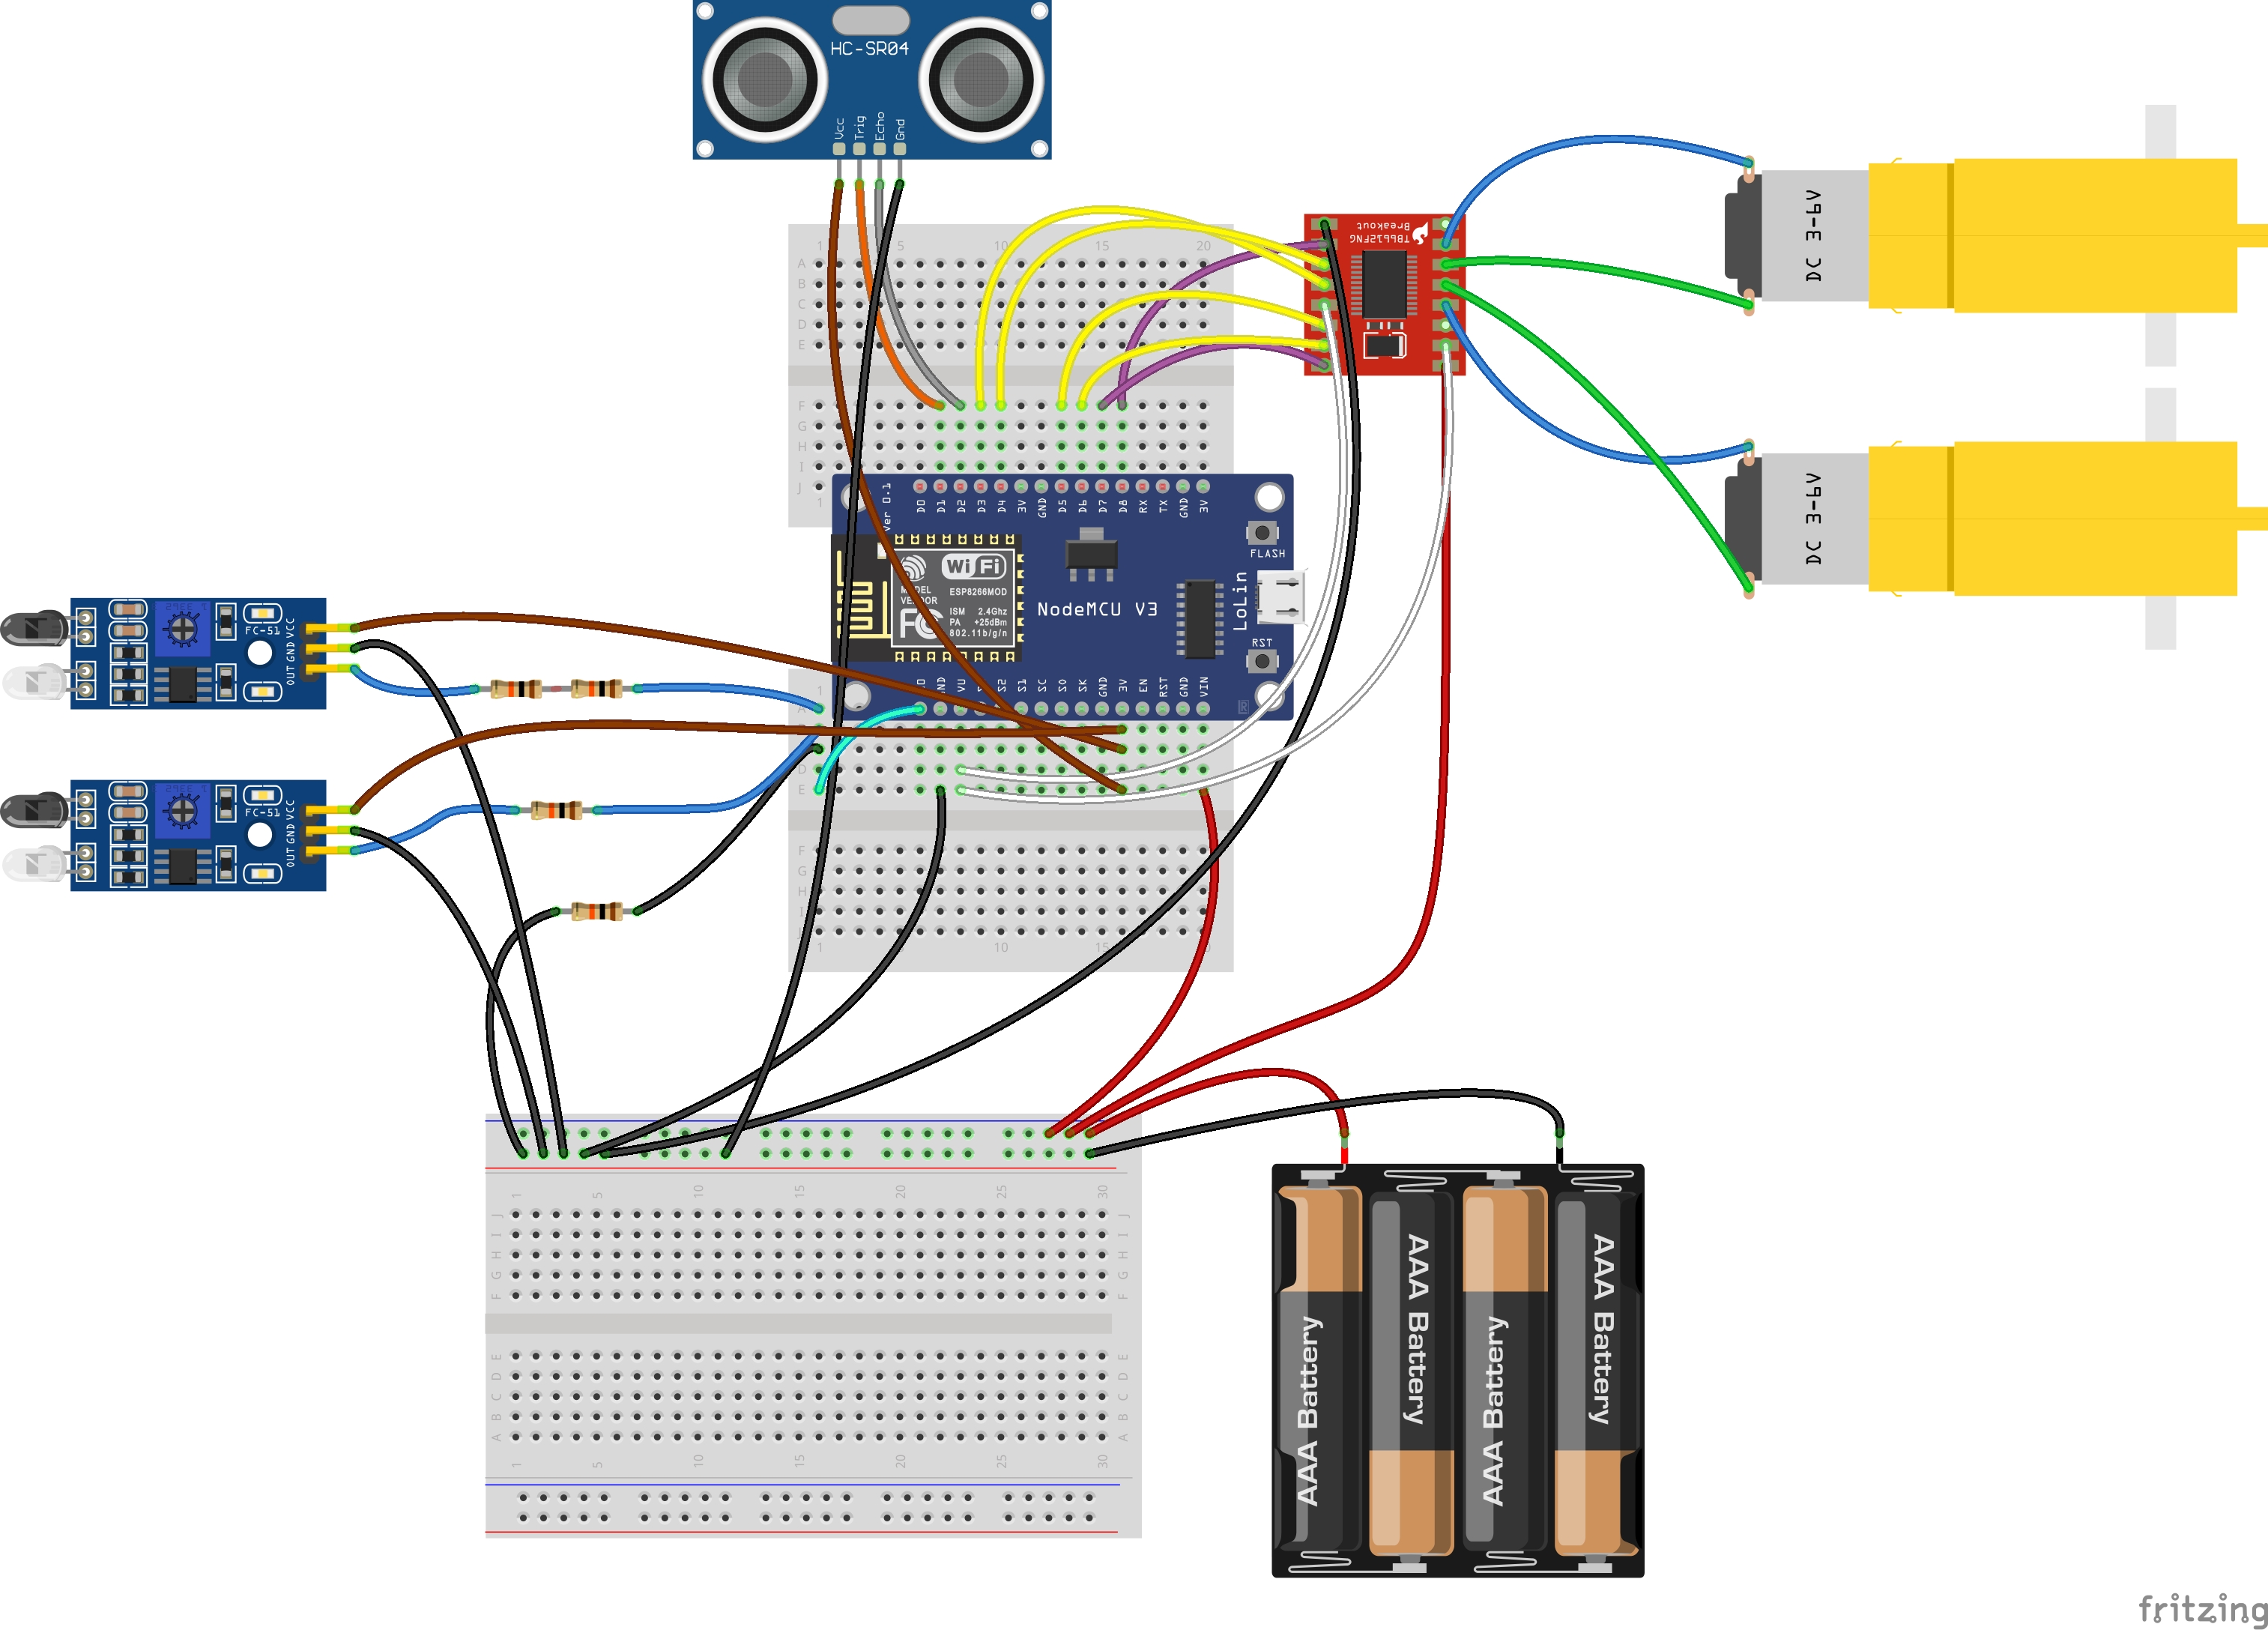
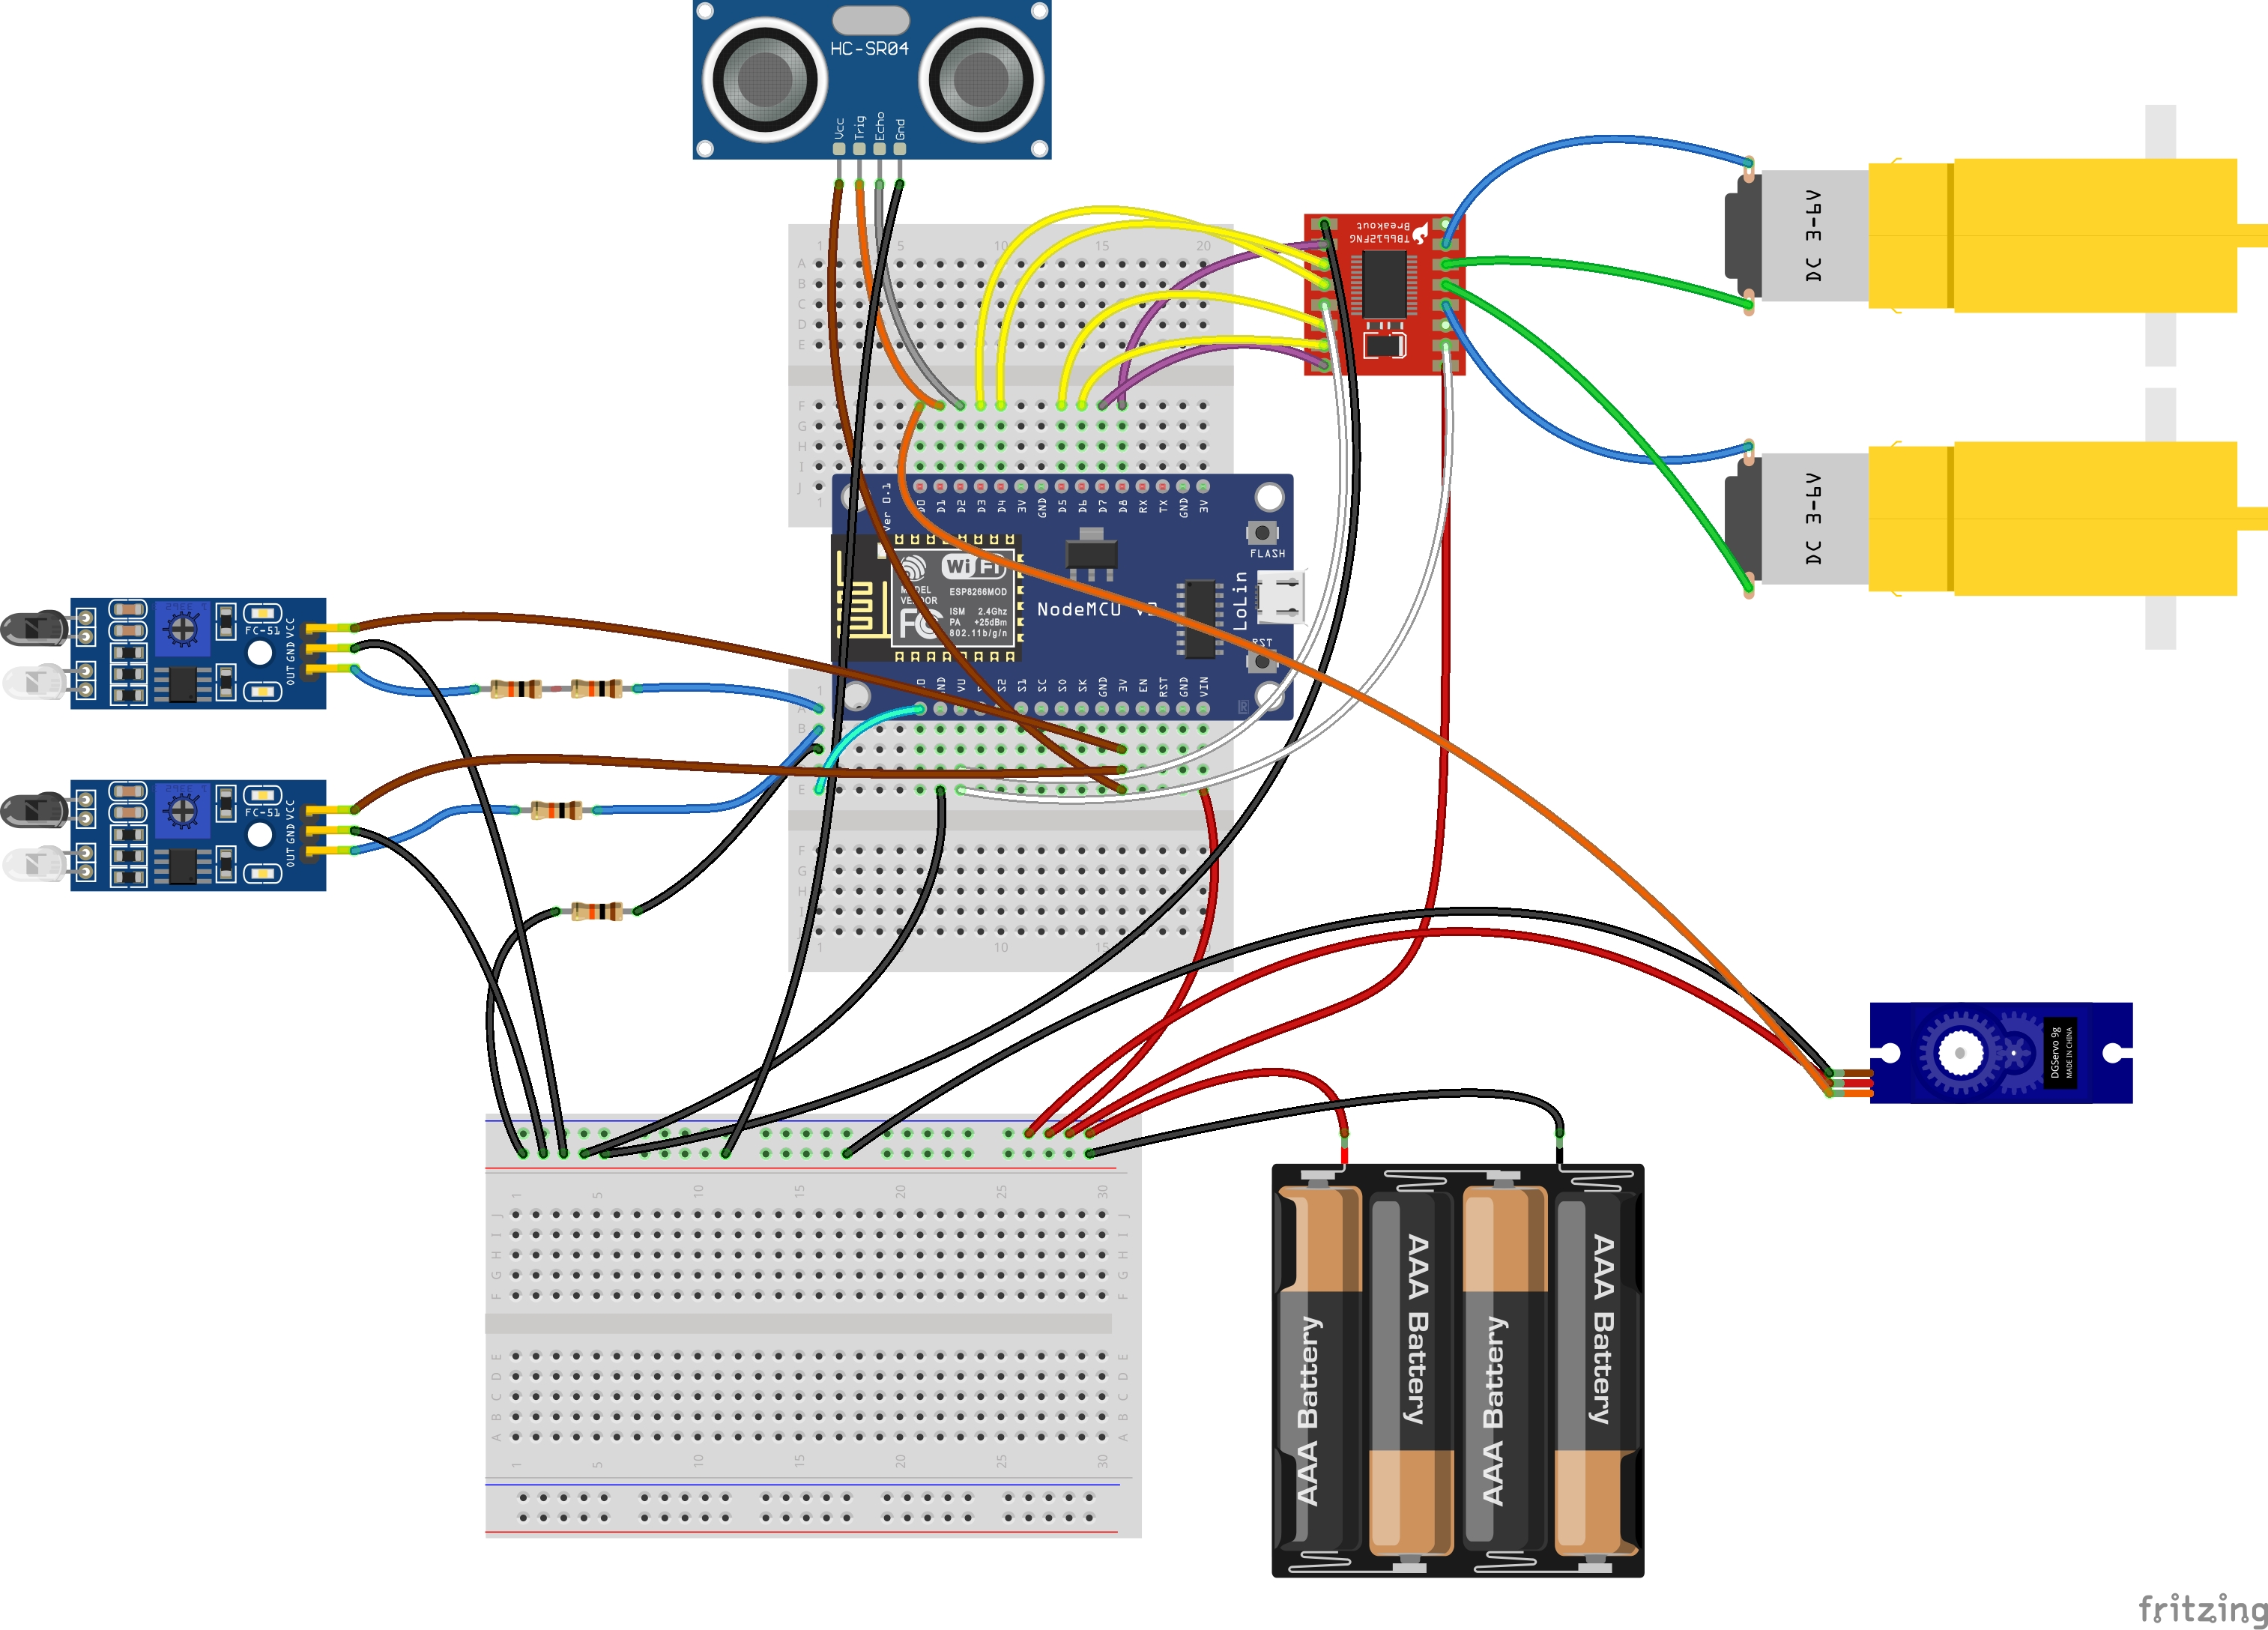
:books: docs: Revisa HARDWARE.md e atualiza imagem do esquema elétrico.

diff --git a/docs/HARDWARE.md b/docs/HARDWARE.md
@@ -107,7 +107,6 @@ HC-SR04 e HW-201 alimentados com **3.3V** em vez de 5V:
 - **Alimentação:** 5V do cabo cortado (mesmo ramo do TB6612 VM)
 - **Sinal:** D0 (GPIO 16) — 3.3V do ESP8266, compatível com o servo
 - **Nunca** ligue o VCC do servo no 3V3 ou VU do NodeMCU
-- **Nunca** ligue o sinal do servo no A0 (A0 é **entrada** ADC, não saída)
 
 ### HC-SR04
 
@@ -180,7 +179,7 @@ Nenhum movimento involuntário.
 | GND power bank = GND NodeMCU = GND TB6612 (comum) | ⚠️ |
 | VM no cabo cortado, **não** no VU | ⚠️ |
 
-Marque com ✅ antes de ligar a energia.
+Verifique antes de ligar a energia.
 
 ---
 